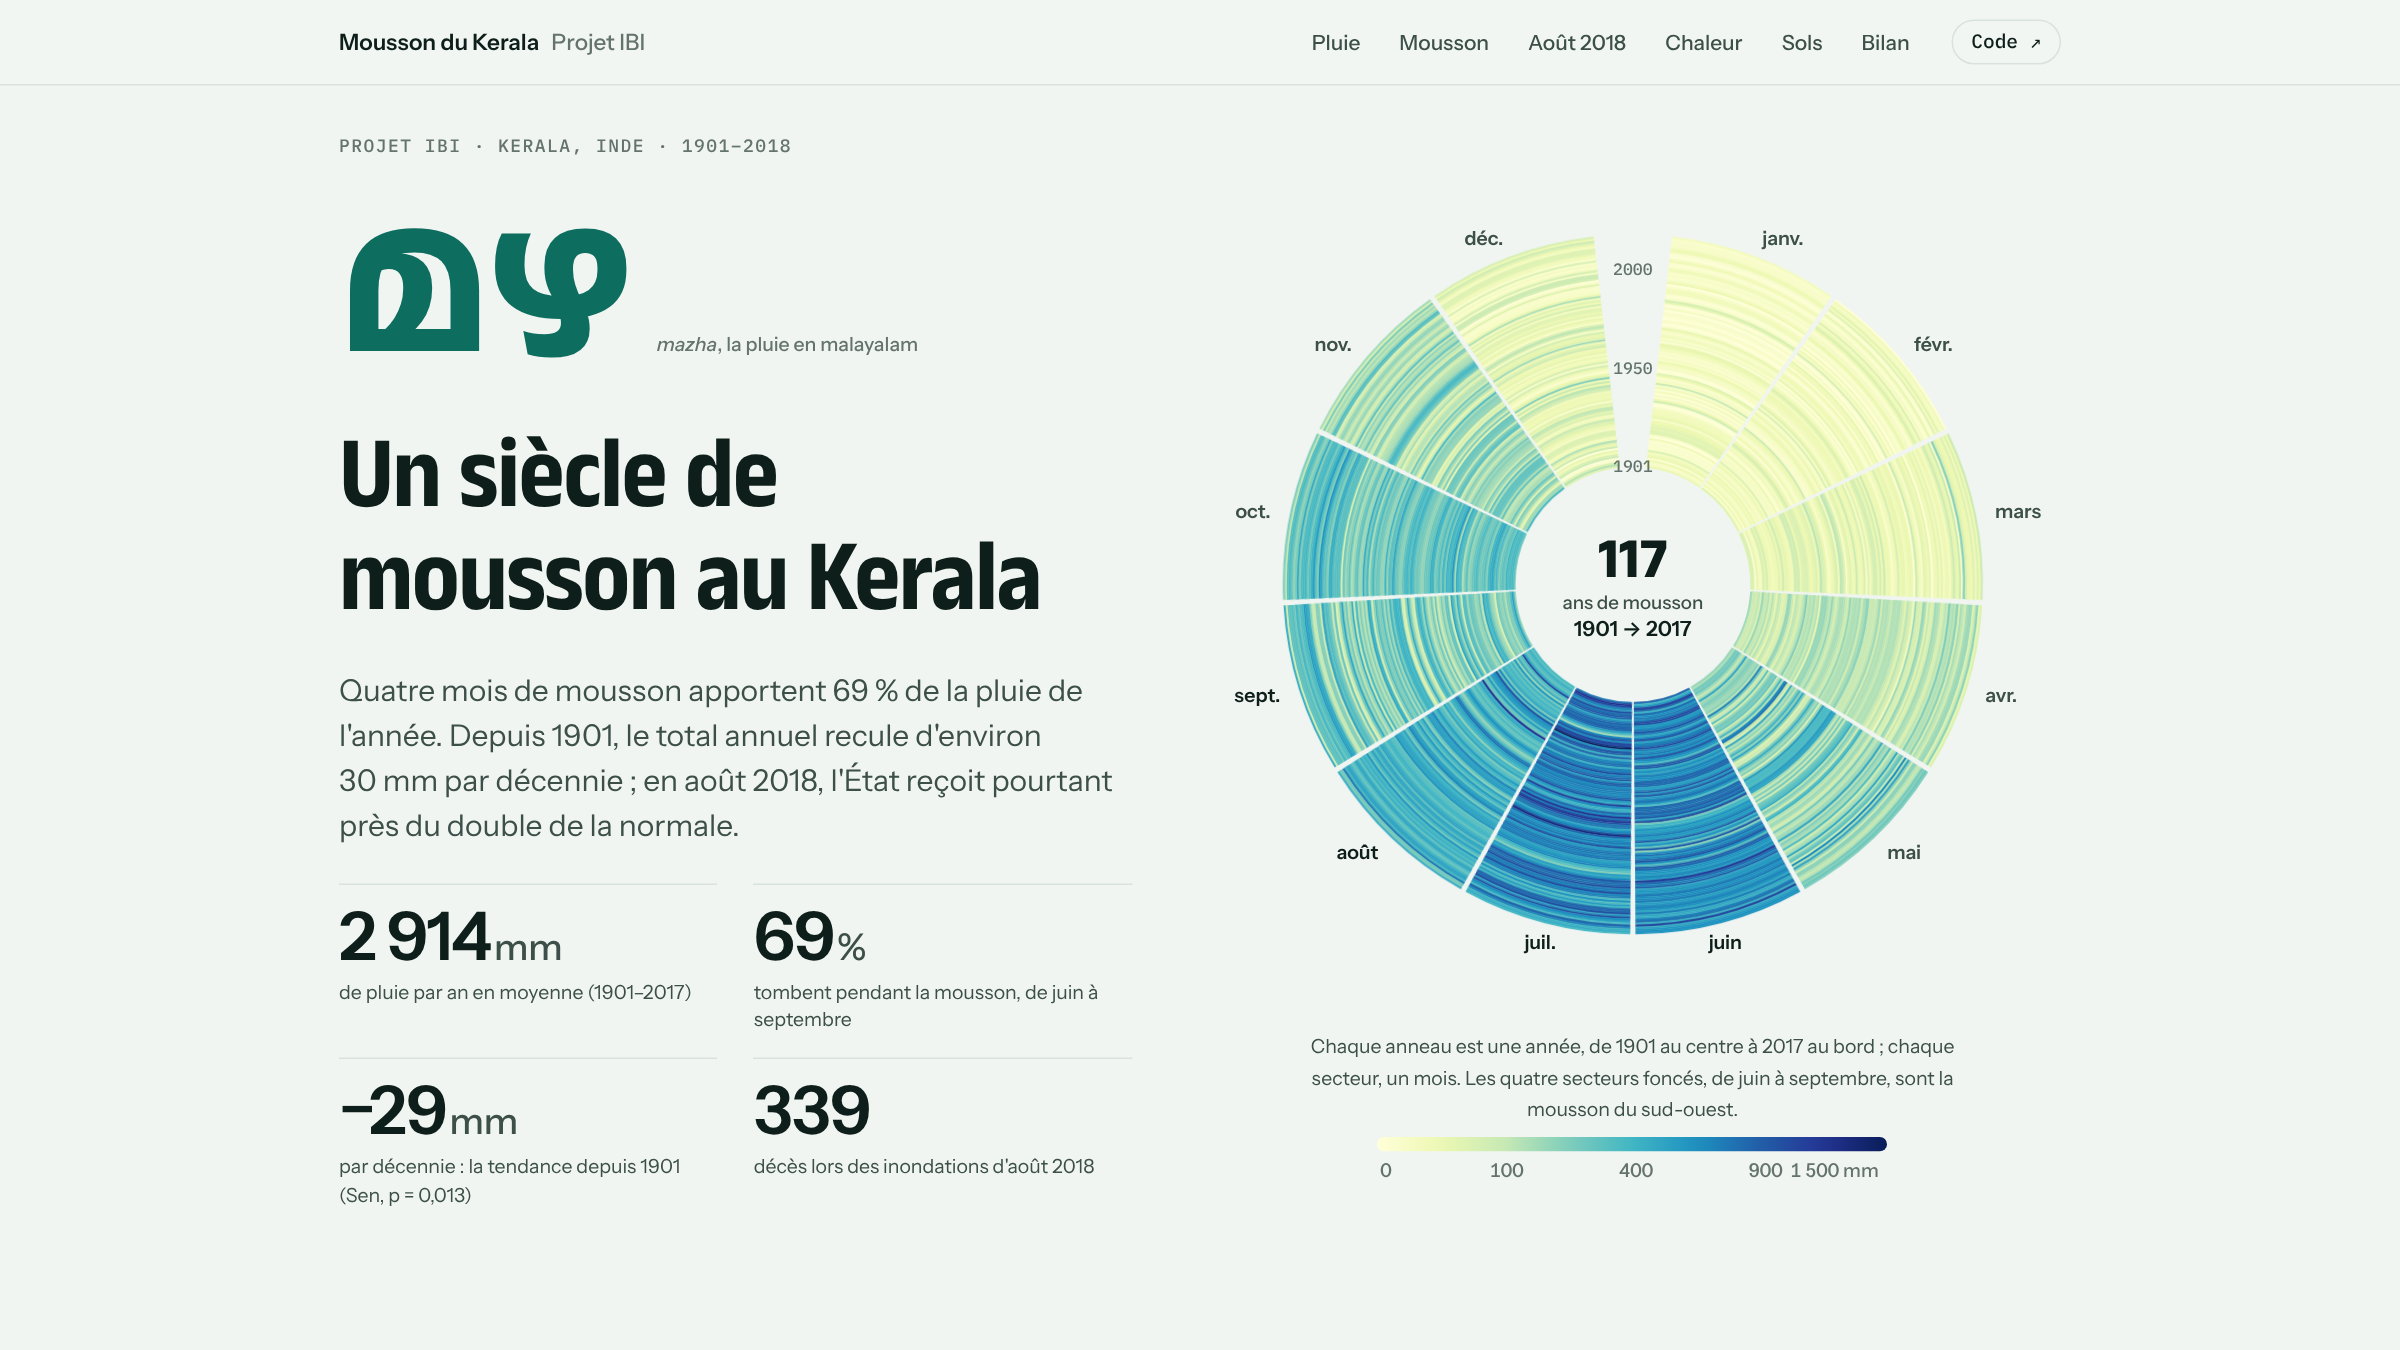
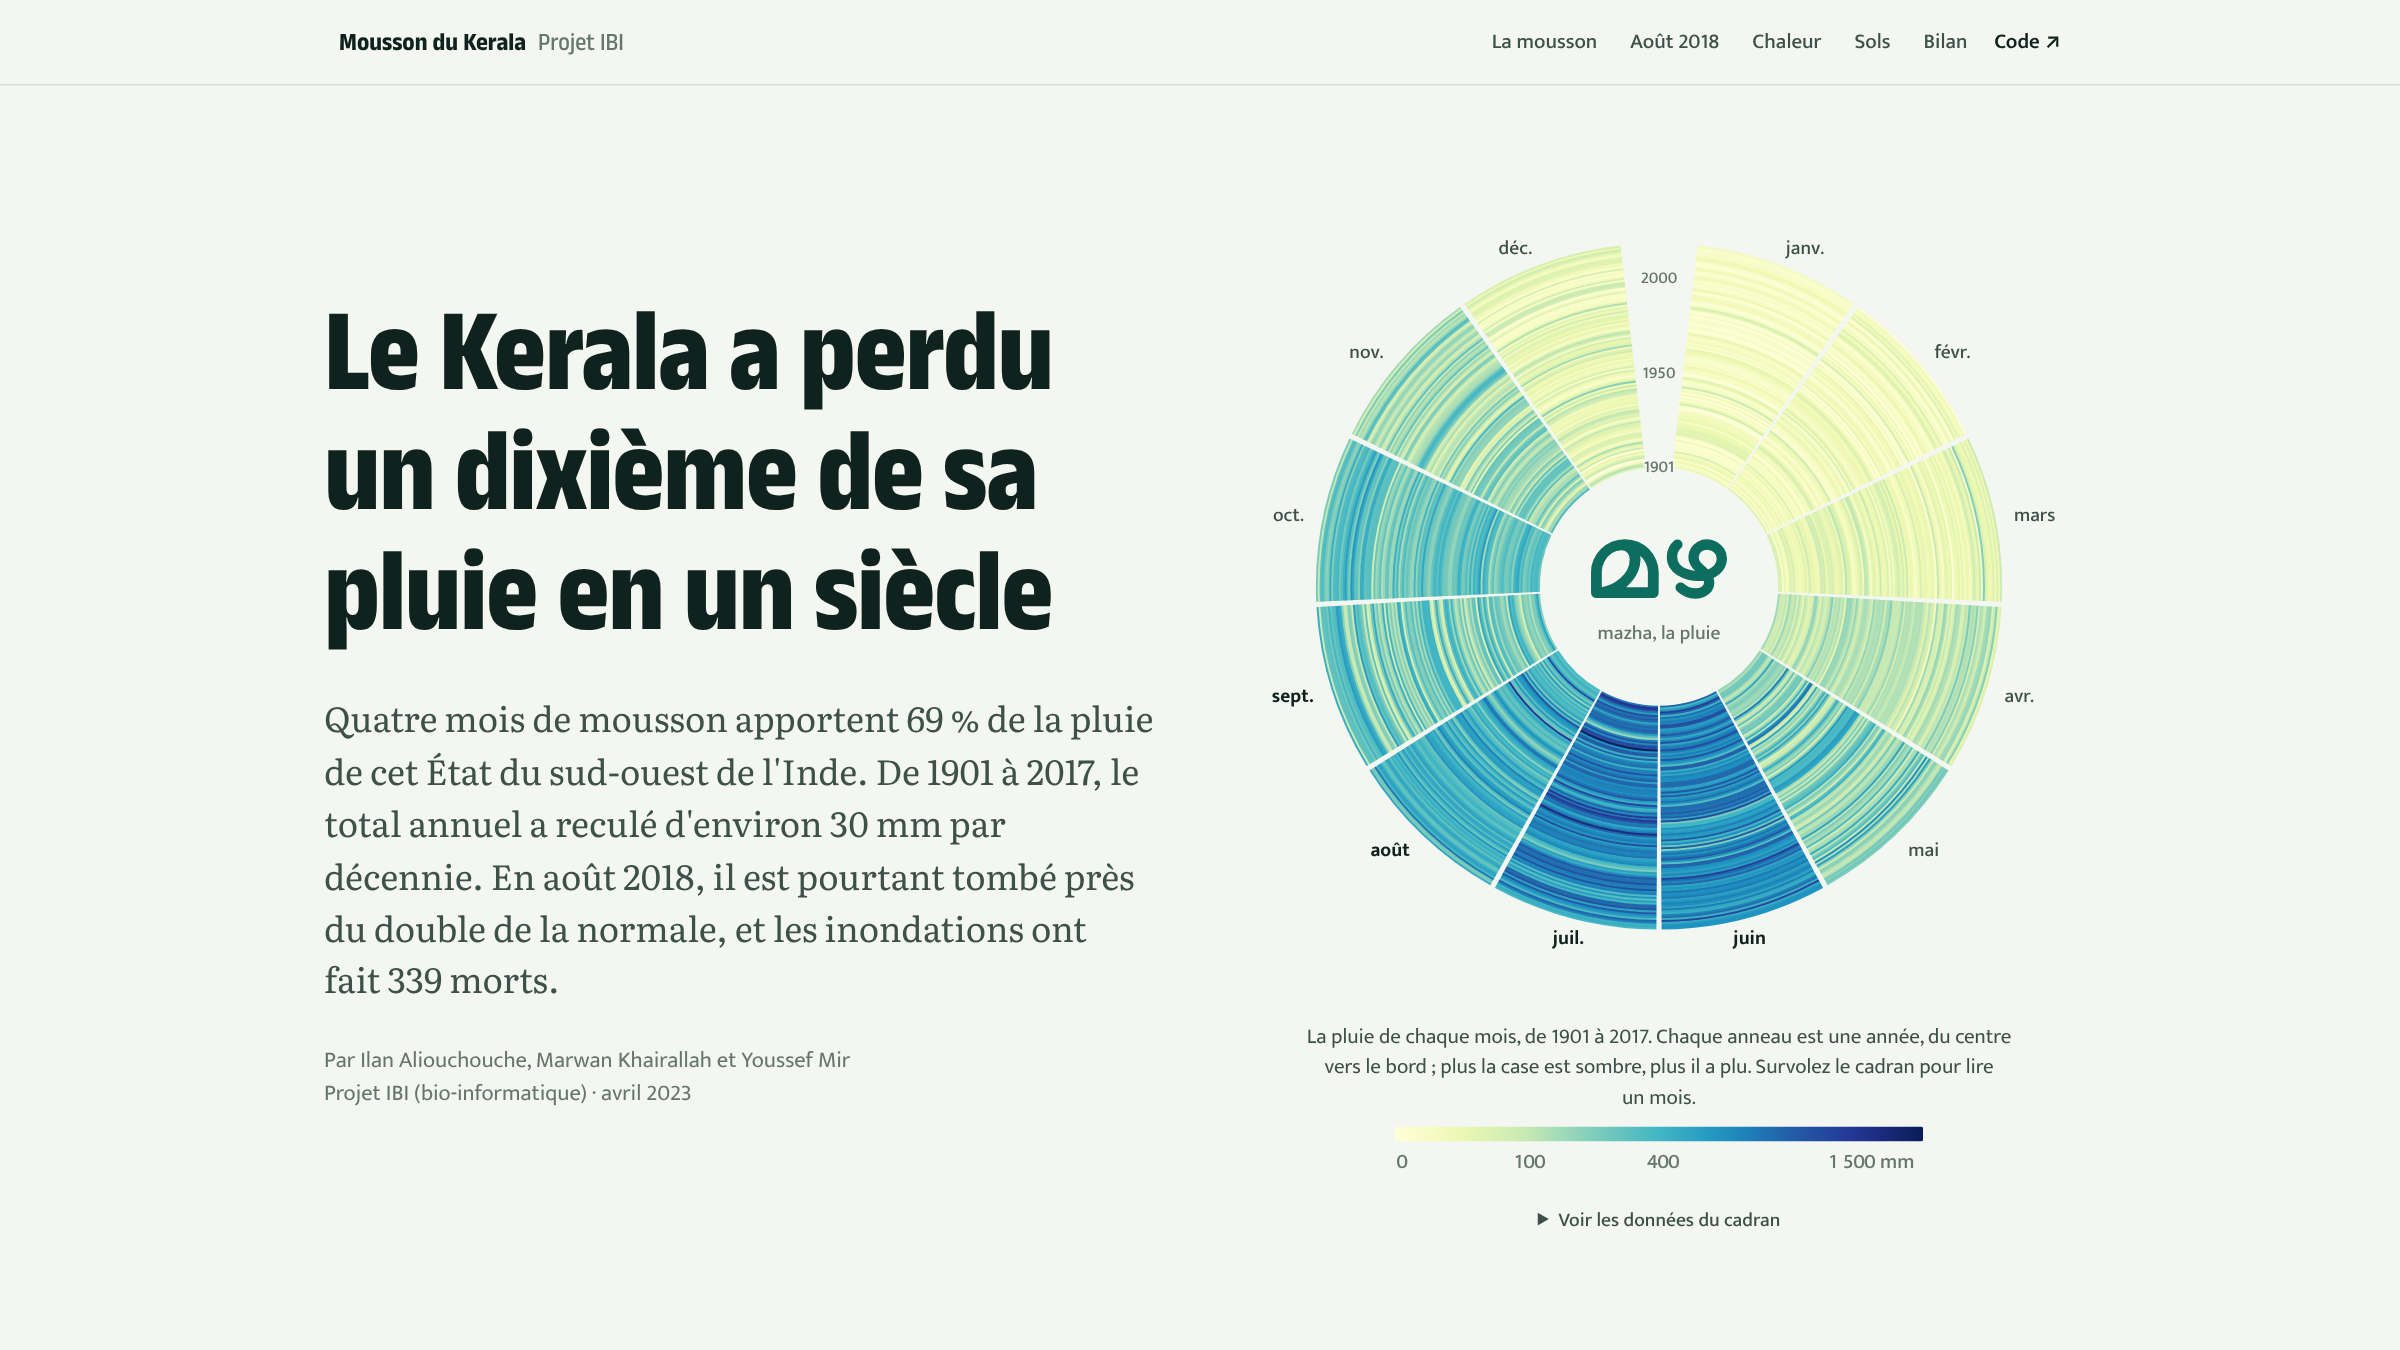
Met à jour le visuel de couverture
- nouvelle couverture tirée de l'en-tête du site (titre, chapô et cadran de la mousson)
- texte alternatif de l'image du README mis à jour

diff --git a/README.md b/README.md
@@ -4,7 +4,7 @@ De 1901 à 2017, la pluie annuelle du Kerala a baissé d'environ 30 mm par déce
 117 ans), portée par la mousson qui en apporte 69 % ; en août 2018, l'État a pourtant reçu près
 du double de la normale.
 
-[![Cadran de la mousson : la pluie de chaque mois au Kerala de 1901 à 2017, à côté des chiffres clés du projet](assets/cover.png)](https://youssefmir.github.io/Precipitations-dans-le-Kerala/)
+[![Titre « Le Kerala a perdu un dixième de sa pluie en un siècle » à côté du cadran de la mousson, qui montre la pluie de chaque mois de 1901 à 2017](assets/cover.png)](https://youssefmir.github.io/Precipitations-dans-le-Kerala/)
 
 **[Voir le site interactif](https://youssefmir.github.io/Precipitations-dans-le-Kerala/)** · [Lire le notebook](https://github.com/youssefmir/Precipitations-dans-le-Kerala/blob/main/notebooks/kerala_monsoon.ipynb) · [Données](#données)
 
